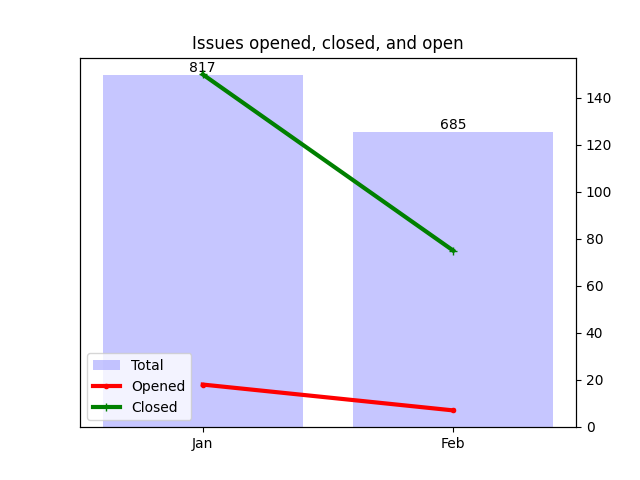
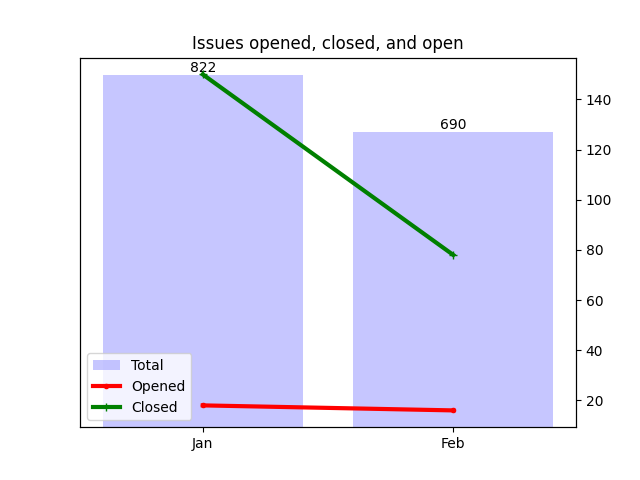
Apply automatic changes

diff --git a/docs/analytics.html b/docs/analytics.html
@@ -74,8 +74,8 @@ td .material-icons { display:inline-flex; vertical-align: top; font-size:1.1rem;
 						</tr>
 						<tr>
 							<td>Feb</td>
-							<td>7</td>
-							<td>75</td>
+							<td>16</td>
+							<td>78</td>
 						</tr>
 					</table>
 				</div>
@@ -95,7 +95,7 @@ td .material-icons { display:inline-flex; vertical-align: top; font-size:1.1rem;
 							<td>
 								<a href="http://github.com/notofonts/latin-greek-cyrillic">latin-greek-cyrillic</a>
 							</td>
-							<td>148</td>
+							<td>149</td>
 						</tr>
 						<tr>
 							<td>
@@ -135,15 +135,15 @@ td .material-icons { display:inline-flex; vertical-align: top; font-size:1.1rem;
 						</tr>
 						<tr>
 							<td>
-								<a href="http://github.com/notofonts/thai">thai</a>
+								<a href="http://github.com/notofonts/hebrew">hebrew</a>
 							</td>
 							<td>11</td>
 						</tr>
 						<tr>
 							<td>
-								<a href="http://github.com/notofonts/hebrew">hebrew</a>
+								<a href="http://github.com/notofonts/thai">thai</a>
 							</td>
-							<td>10</td>
+							<td>11</td>
 						</tr>
 						<tr>
 							<td>
@@ -166,13 +166,13 @@ td .material-icons { display:inline-flex; vertical-align: top; font-size:1.1rem;
 				<tr>
 					<td>1</td>
 					<td>
-						<a href="http://github.com/notofonts/bamum">bamum</a>,  						<a href="http://github.com/notofonts/deseret">deseret</a>,  						<a href="http://github.com/notofonts/duployan">duployan</a>,  						<a href="http://github.com/notofonts/hanunoo">hanunoo</a>,  						<a href="http://github.com/notofonts/inscriptional-parthian">inscriptional-parthian</a>,  						<a href="http://github.com/notofonts/kharoshthi">kharoshthi</a>,  						<a href="http://github.com/notofonts/khitan-small-script">khitan-small-script</a>,  						<a href="http://github.com/notofonts/khudawadi">khudawadi</a>,  						<a href="http://github.com/notofonts/linear-a">linear-a</a>,  						<a href="http://github.com/notofonts/meetei-mayek">meetei-mayek</a>,  						<a href="http://github.com/notofonts/mende-kikakui">mende-kikakui</a>,  						<a href="http://github.com/notofonts/miao">miao</a>,  						<a href="http://github.com/notofonts/old-italic">old-italic</a>,  						<a href="http://github.com/notofonts/saurashtra">saurashtra</a>,  						<a href="http://github.com/notofonts/tai-le">tai-le</a> 
+						<a href="http://github.com/notofonts/bamum">bamum</a>,  						<a href="http://github.com/notofonts/deseret">deseret</a>,  						<a href="http://github.com/notofonts/duployan">duployan</a>,  						<a href="http://github.com/notofonts/inscriptional-parthian">inscriptional-parthian</a>,  						<a href="http://github.com/notofonts/kharoshthi">kharoshthi</a>,  						<a href="http://github.com/notofonts/khitan-small-script">khitan-small-script</a>,  						<a href="http://github.com/notofonts/khudawadi">khudawadi</a>,  						<a href="http://github.com/notofonts/linear-a">linear-a</a>,  						<a href="http://github.com/notofonts/meetei-mayek">meetei-mayek</a>,  						<a href="http://github.com/notofonts/mende-kikakui">mende-kikakui</a>,  						<a href="http://github.com/notofonts/miao">miao</a>,  						<a href="http://github.com/notofonts/nag-mundari">nag-mundari</a>,  						<a href="http://github.com/notofonts/old-italic">old-italic</a>,  						<a href="http://github.com/notofonts/saurashtra">saurashtra</a>,  						<a href="http://github.com/notofonts/sinhala">sinhala</a>,  						<a href="http://github.com/notofonts/tai-le">tai-le</a> 
 					</td>
 				</tr>
 				<tr>
 					<td>2</td>
 					<td>
-						<a href="http://github.com/notofonts/canadian-aboriginal">canadian-aboriginal</a>,  						<a href="http://github.com/notofonts/cham">cham</a>,  						<a href="http://github.com/notofonts/chorasmian">chorasmian</a>,  						<a href="http://github.com/notofonts/coptic">coptic</a>,  						<a href="http://github.com/notofonts/elbasan">elbasan</a>,  						<a href="http://github.com/notofonts/elymaic">elymaic</a>,  						<a href="http://github.com/notofonts/georgian">georgian</a>,  						<a href="http://github.com/notofonts/hanifi-rohingya">hanifi-rohingya</a>,  						<a href="http://github.com/notofonts/inscriptional-pahlavi">inscriptional-pahlavi</a>,  						<a href="http://github.com/notofonts/limbu">limbu</a>,  						<a href="http://github.com/notofonts/lydian">lydian</a>,  						<a href="http://github.com/notofonts/marchen">marchen</a>,  						<a href="http://github.com/notofonts/meroitic">meroitic</a>,  						<a href="http://github.com/notofonts/multani">multani</a>,  						<a href="http://github.com/notofonts/nko">nko</a>,  						<a href="http://github.com/notofonts/old-turkic">old-turkic</a>,  						<a href="http://github.com/notofonts/pahawh-hmong">pahawh-hmong</a>,  						<a href="http://github.com/notofonts/phags-pa">phags-pa</a>,  						<a href="http://github.com/notofonts/psalter-pahlavi">psalter-pahlavi</a>,  						<a href="http://github.com/notofonts/tangsa">tangsa</a>,  						<a href="http://github.com/notofonts/thaana">thaana</a>,  						<a href="http://github.com/notofonts/yezidi">yezidi</a>,  						<a href="http://github.com/notofonts/zanabazar-square">zanabazar-square</a> 
+						<a href="http://github.com/notofonts/canadian-aboriginal">canadian-aboriginal</a>,  						<a href="http://github.com/notofonts/cham">cham</a>,  						<a href="http://github.com/notofonts/chorasmian">chorasmian</a>,  						<a href="http://github.com/notofonts/coptic">coptic</a>,  						<a href="http://github.com/notofonts/elbasan">elbasan</a>,  						<a href="http://github.com/notofonts/elymaic">elymaic</a>,  						<a href="http://github.com/notofonts/georgian">georgian</a>,  						<a href="http://github.com/notofonts/hanifi-rohingya">hanifi-rohingya</a>,  						<a href="http://github.com/notofonts/hanunoo">hanunoo</a>,  						<a href="http://github.com/notofonts/inscriptional-pahlavi">inscriptional-pahlavi</a>,  						<a href="http://github.com/notofonts/limbu">limbu</a>,  						<a href="http://github.com/notofonts/lydian">lydian</a>,  						<a href="http://github.com/notofonts/marchen">marchen</a>,  						<a href="http://github.com/notofonts/meroitic">meroitic</a>,  						<a href="http://github.com/notofonts/multani">multani</a>,  						<a href="http://github.com/notofonts/nko">nko</a>,  						<a href="http://github.com/notofonts/old-turkic">old-turkic</a>,  						<a href="http://github.com/notofonts/pahawh-hmong">pahawh-hmong</a>,  						<a href="http://github.com/notofonts/phags-pa">phags-pa</a>,  						<a href="http://github.com/notofonts/psalter-pahlavi">psalter-pahlavi</a>,  						<a href="http://github.com/notofonts/tangsa">tangsa</a>,  						<a href="http://github.com/notofonts/thaana">thaana</a>,  						<a href="http://github.com/notofonts/yezidi">yezidi</a>,  						<a href="http://github.com/notofonts/zanabazar-square">zanabazar-square</a> 
 					</td>
 				</tr>
 				<tr>
@@ -184,25 +184,25 @@ td .material-icons { display:inline-flex; vertical-align: top; font-size:1.1rem;
 				<tr>
 					<td>4</td>
 					<td>
-						<a href="http://github.com/notofonts/ahom">ahom</a>,  						<a href="http://github.com/notofonts/armenian">armenian</a>,  						<a href="http://github.com/notofonts/caucasian-albanian">caucasian-albanian</a>,  						<a href="http://github.com/notofonts/dogra">dogra</a>,  						<a href="http://github.com/notofonts/grantha">grantha</a>,  						<a href="http://github.com/notofonts/lao">lao</a>,  						<a href="http://github.com/notofonts/manichaean">manichaean</a>,  						<a href="http://github.com/notofonts/nandinagari">nandinagari</a>,  						<a href="http://github.com/notofonts/nushu">nushu</a>,  						<a href="http://github.com/notofonts/old-hungarian-ui">old-hungarian-ui</a>,  						<a href="http://github.com/notofonts/oriya">oriya</a>,  						<a href="http://github.com/notofonts/sundanese">sundanese</a>,  						<a href="http://github.com/notofonts/tai-tham">tai-tham</a>,  						<a href="http://github.com/notofonts/takri">takri</a>,  						<a href="http://github.com/notofonts/telugu">telugu</a> 
+						<a href="http://github.com/notofonts/ahom">ahom</a>,  						<a href="http://github.com/notofonts/armenian">armenian</a>,  						<a href="http://github.com/notofonts/caucasian-albanian">caucasian-albanian</a>,  						<a href="http://github.com/notofonts/dogra">dogra</a>,  						<a href="http://github.com/notofonts/lao">lao</a>,  						<a href="http://github.com/notofonts/manichaean">manichaean</a>,  						<a href="http://github.com/notofonts/nandinagari">nandinagari</a>,  						<a href="http://github.com/notofonts/nushu">nushu</a>,  						<a href="http://github.com/notofonts/old-hungarian-ui">old-hungarian-ui</a>,  						<a href="http://github.com/notofonts/oriya">oriya</a>,  						<a href="http://github.com/notofonts/sundanese">sundanese</a>,  						<a href="http://github.com/notofonts/tai-tham">tai-tham</a>,  						<a href="http://github.com/notofonts/takri">takri</a> 
 					</td>
 				</tr>
 				<tr>
 					<td>5</td>
 					<td>
-						<a href="http://github.com/notofonts/bengali">bengali</a>,  						<a href="http://github.com/notofonts/bhaiksuki">bhaiksuki</a>,  						<a href="http://github.com/notofonts/egyptian-hieroglyphs">egyptian-hieroglyphs</a>,  						<a href="http://github.com/notofonts/javanese">javanese</a>,  						<a href="http://github.com/notofonts/modi">modi</a>,  						<a href="http://github.com/notofonts/music">music</a> 
+						<a href="http://github.com/notofonts/bhaiksuki">bhaiksuki</a>,  						<a href="http://github.com/notofonts/egyptian-hieroglyphs">egyptian-hieroglyphs</a>,  						<a href="http://github.com/notofonts/grantha">grantha</a>,  						<a href="http://github.com/notofonts/javanese">javanese</a>,  						<a href="http://github.com/notofonts/modi">modi</a>,  						<a href="http://github.com/notofonts/music">music</a>,  						<a href="http://github.com/notofonts/telugu">telugu</a> 
 					</td>
 				</tr>
 				<tr>
 					<td>6</td>
 					<td>
-						<a href="http://github.com/notofonts/adlam">adlam</a>,  						<a href="http://github.com/notofonts/brahmi">brahmi</a>,  						<a href="http://github.com/notofonts/devanagari">devanagari</a>,  						<a href="http://github.com/notofonts/kaithi">kaithi</a>,  						<a href="http://github.com/notofonts/khojki">khojki</a>,  						<a href="http://github.com/notofonts/malayalam">malayalam</a>,  						<a href="http://github.com/notofonts/mongolian">mongolian</a>,  						<a href="http://github.com/notofonts/sign-writing">sign-writing</a>,  						<a href="http://github.com/notofonts/syriac">syriac</a>,  						<a href="http://github.com/notofonts/tamil">tamil</a> 
+						<a href="http://github.com/notofonts/adlam">adlam</a>,  						<a href="http://github.com/notofonts/brahmi">brahmi</a>,  						<a href="http://github.com/notofonts/kaithi">kaithi</a>,  						<a href="http://github.com/notofonts/khojki">khojki</a>,  						<a href="http://github.com/notofonts/mongolian">mongolian</a>,  						<a href="http://github.com/notofonts/sign-writing">sign-writing</a>,  						<a href="http://github.com/notofonts/syriac">syriac</a>,  						<a href="http://github.com/notofonts/tamil">tamil</a> 
 					</td>
 				</tr>
 				<tr>
 					<td>7</td>
 					<td>
-						<a href="http://github.com/notofonts/dives-akuru">dives-akuru</a>,  						<a href="http://github.com/notofonts/gujarati">gujarati</a>,  						<a href="http://github.com/notofonts/syloti-nagri">syloti-nagri</a> 
+						<a href="http://github.com/notofonts/bengali">bengali</a>,  						<a href="http://github.com/notofonts/devanagari">devanagari</a>,  						<a href="http://github.com/notofonts/dives-akuru">dives-akuru</a>,  						<a href="http://github.com/notofonts/gujarati">gujarati</a>,  						<a href="http://github.com/notofonts/malayalam">malayalam</a>,  						<a href="http://github.com/notofonts/syloti-nagri">syloti-nagri</a> 
 					</td>
 				</tr>
 				<tr>
@@ -220,7 +220,7 @@ td .material-icons { display:inline-flex; vertical-align: top; font-size:1.1rem;
 				<tr>
 					<td>10</td>
 					<td>
-						<a href="http://github.com/notofonts/hebrew">hebrew</a>,  						<a href="http://github.com/notofonts/siddham">siddham</a>,  						<a href="http://github.com/notofonts/tirhuta">tirhuta</a> 
+						<a href="http://github.com/notofonts/siddham">siddham</a>,  						<a href="http://github.com/notofonts/tirhuta">tirhuta</a> 
 					</td>
 				</tr>
 			</table>
@@ -235,33 +235,35 @@ td .material-icons { display:inline-flex; vertical-align: top; font-size:1.1rem;
 						<tr>
 							<td>1</td>
 							<td>
-									<a href="http://github.com/notofonts/latin-greek-cyrillic">latin-greek-cyrillic</a>: 148, 
+									<a href="http://github.com/notofonts/latin-greek-cyrillic">latin-greek-cyrillic</a>: 149, 
 
 									<a href="http://github.com/notofonts/arabic">arabic</a>: 23, 
 
 									<a href="http://github.com/notofonts/nastaliq">nastaliq</a>: 17, 
 
-									<a href="http://github.com/notofonts/hebrew">hebrew</a>: 10, 
+									<a href="http://github.com/notofonts/hebrew">hebrew</a>: 11, 
 
 									<a href="http://github.com/notofonts/kannada">kannada</a>: 8, 
 
+									<a href="http://github.com/notofonts/bengali">bengali</a>: 7, 
+
+									<a href="http://github.com/notofonts/devanagari">devanagari</a>: 7, 
+
 									<a href="http://github.com/notofonts/gujarati">gujarati</a>: 7, 
 
-									<a href="http://github.com/notofonts/devanagari">devanagari</a>: 6, 
-
-									<a href="http://github.com/notofonts/malayalam">malayalam</a>: 6, 
+									<a href="http://github.com/notofonts/malayalam">malayalam</a>: 7, 
 
 									<a href="http://github.com/notofonts/tamil">tamil</a>: 6, 
 
-									<a href="http://github.com/notofonts/bengali">bengali</a>: 5, 
+									<a href="http://github.com/notofonts/telugu">telugu</a>: 5, 
 
 									<a href="http://github.com/notofonts/armenian">armenian</a>: 4, 
 
 									<a href="http://github.com/notofonts/oriya">oriya</a>: 4, 
 
-									<a href="http://github.com/notofonts/telugu">telugu</a>: 4, 
+									<a href="http://github.com/notofonts/gurmukhi">gurmukhi</a>: 3, 
 
-									<a href="http://github.com/notofonts/gurmukhi">gurmukhi</a>: 3
+									<a href="http://github.com/notofonts/sinhala">sinhala</a>: 1
 							</td>
 						</tr>
 						<tr>
@@ -341,6 +343,8 @@ td .material-icons { display:inline-flex; vertical-align: top; font-size:1.1rem;
 
 									<a href="http://github.com/notofonts/hanifi-rohingya">hanifi-rohingya</a>: 2, 
 
+									<a href="http://github.com/notofonts/hanunoo">hanunoo</a>: 2, 
+
 									<a href="http://github.com/notofonts/multani">multani</a>: 2, 
 
 									<a href="http://github.com/notofonts/nko">nko</a>: 2, 
@@ -357,13 +361,13 @@ td .material-icons { display:inline-flex; vertical-align: top; font-size:1.1rem;
 
 									<a href="http://github.com/notofonts/duployan">duployan</a>: 1, 
 
-									<a href="http://github.com/notofonts/hanunoo">hanunoo</a>: 1, 
-
 									<a href="http://github.com/notofonts/meetei-mayek">meetei-mayek</a>: 1, 
 
 									<a href="http://github.com/notofonts/mende-kikakui">mende-kikakui</a>: 1, 
 
 									<a href="http://github.com/notofonts/miao">miao</a>: 1, 
+
+									<a href="http://github.com/notofonts/nag-mundari">nag-mundari</a>: 1, 
 
 									<a href="http://github.com/notofonts/saurashtra">saurashtra</a>: 1, 
 
@@ -381,11 +385,11 @@ td .material-icons { display:inline-flex; vertical-align: top; font-size:1.1rem;
 
 									<a href="http://github.com/notofonts/egyptian-hieroglyphs">egyptian-hieroglyphs</a>: 5, 
 
+									<a href="http://github.com/notofonts/grantha">grantha</a>: 5, 
+
 									<a href="http://github.com/notofonts/ahom">ahom</a>: 4, 
 
 									<a href="http://github.com/notofonts/dogra">dogra</a>: 4, 
-
-									<a href="http://github.com/notofonts/grantha">grantha</a>: 4, 
 
 									<a href="http://github.com/notofonts/manichaean">manichaean</a>: 4, 
 
